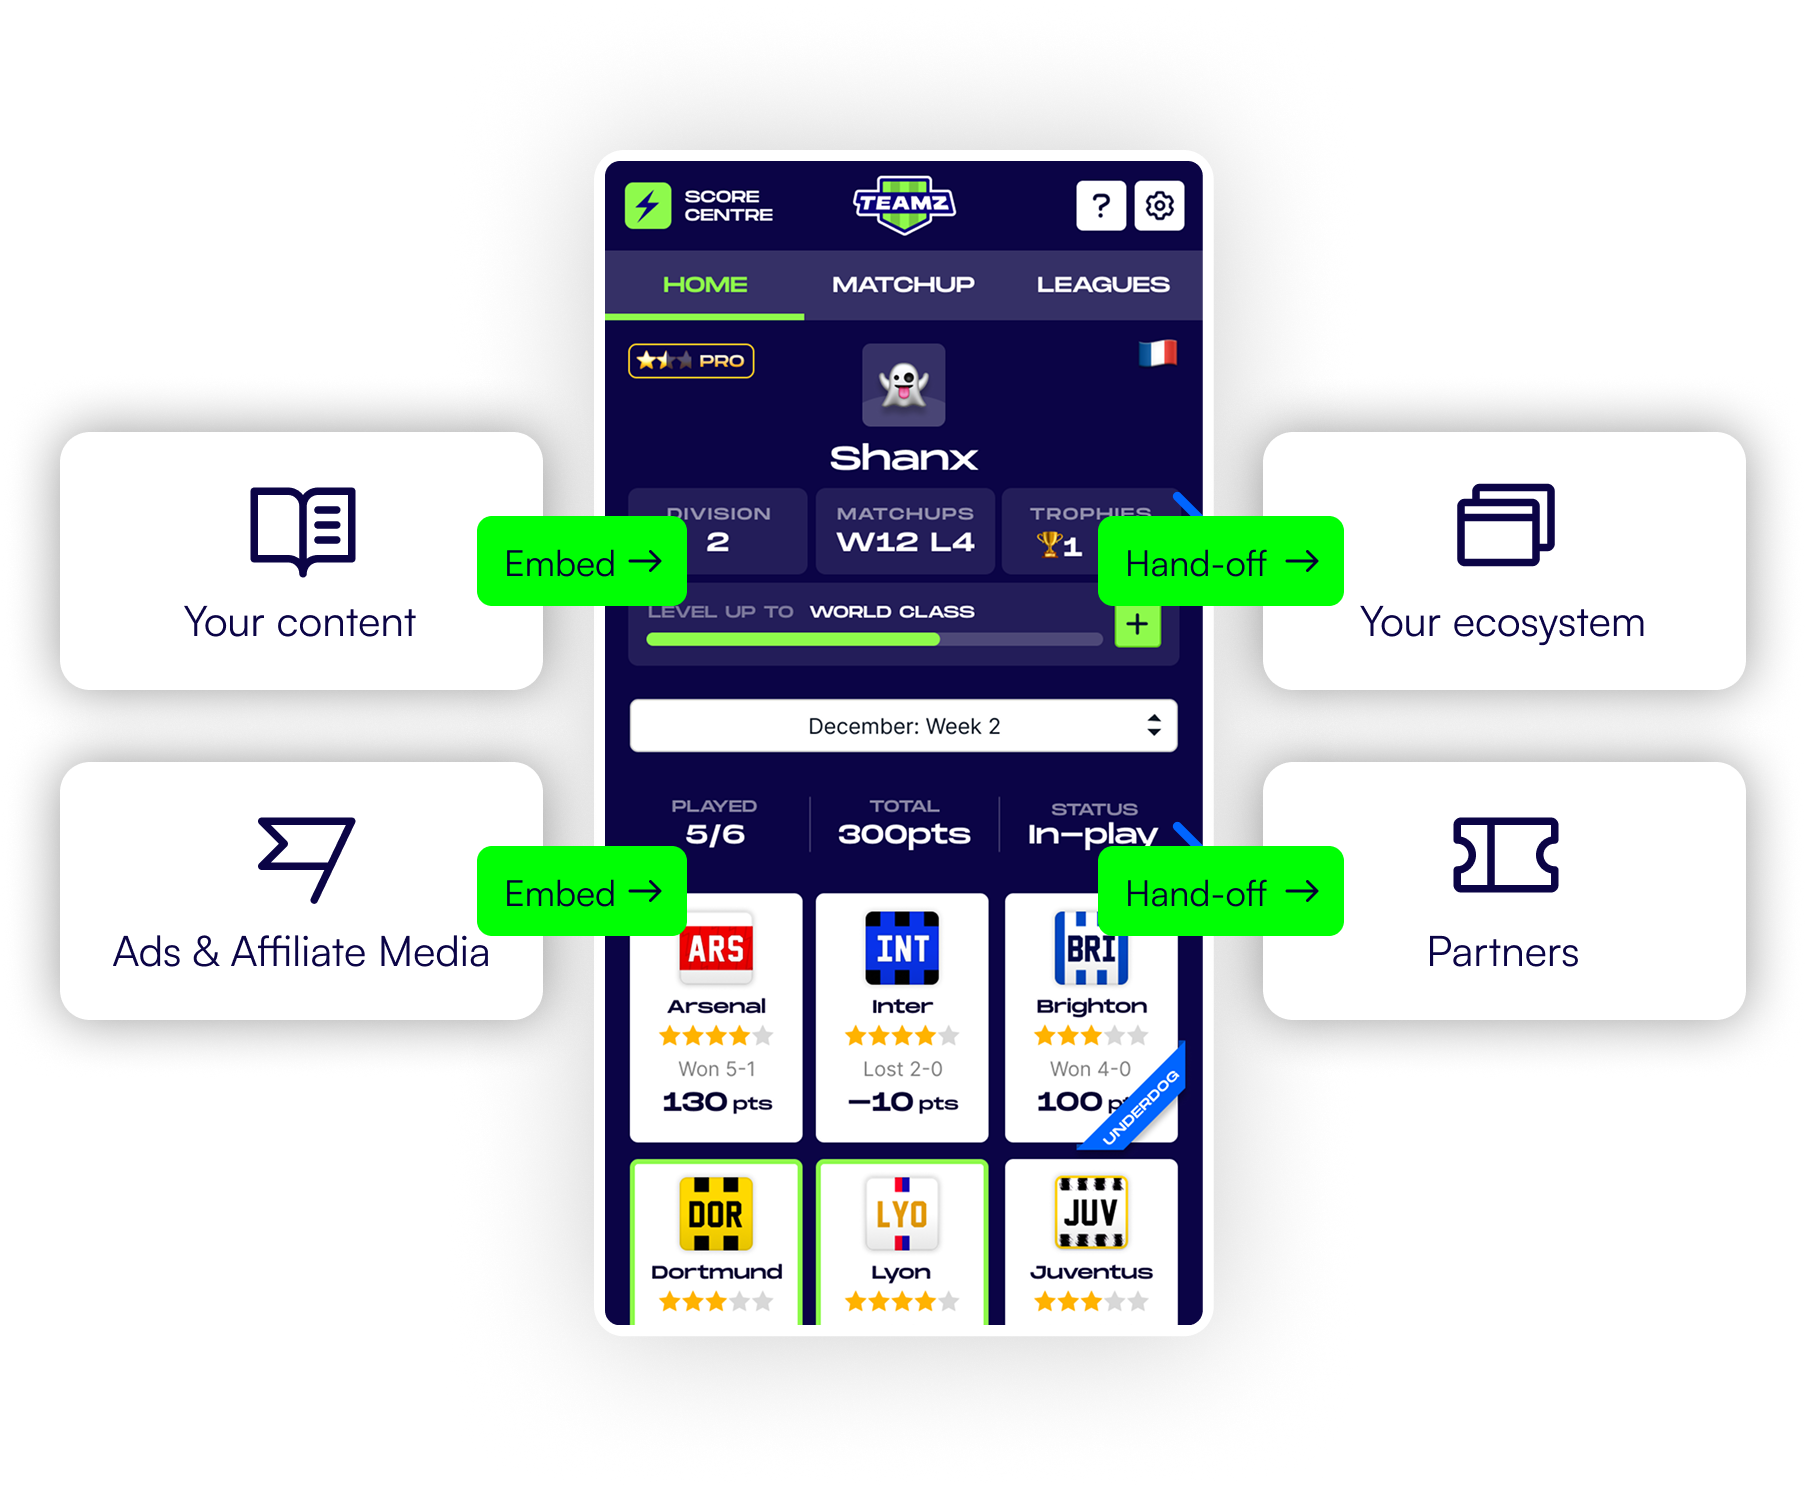
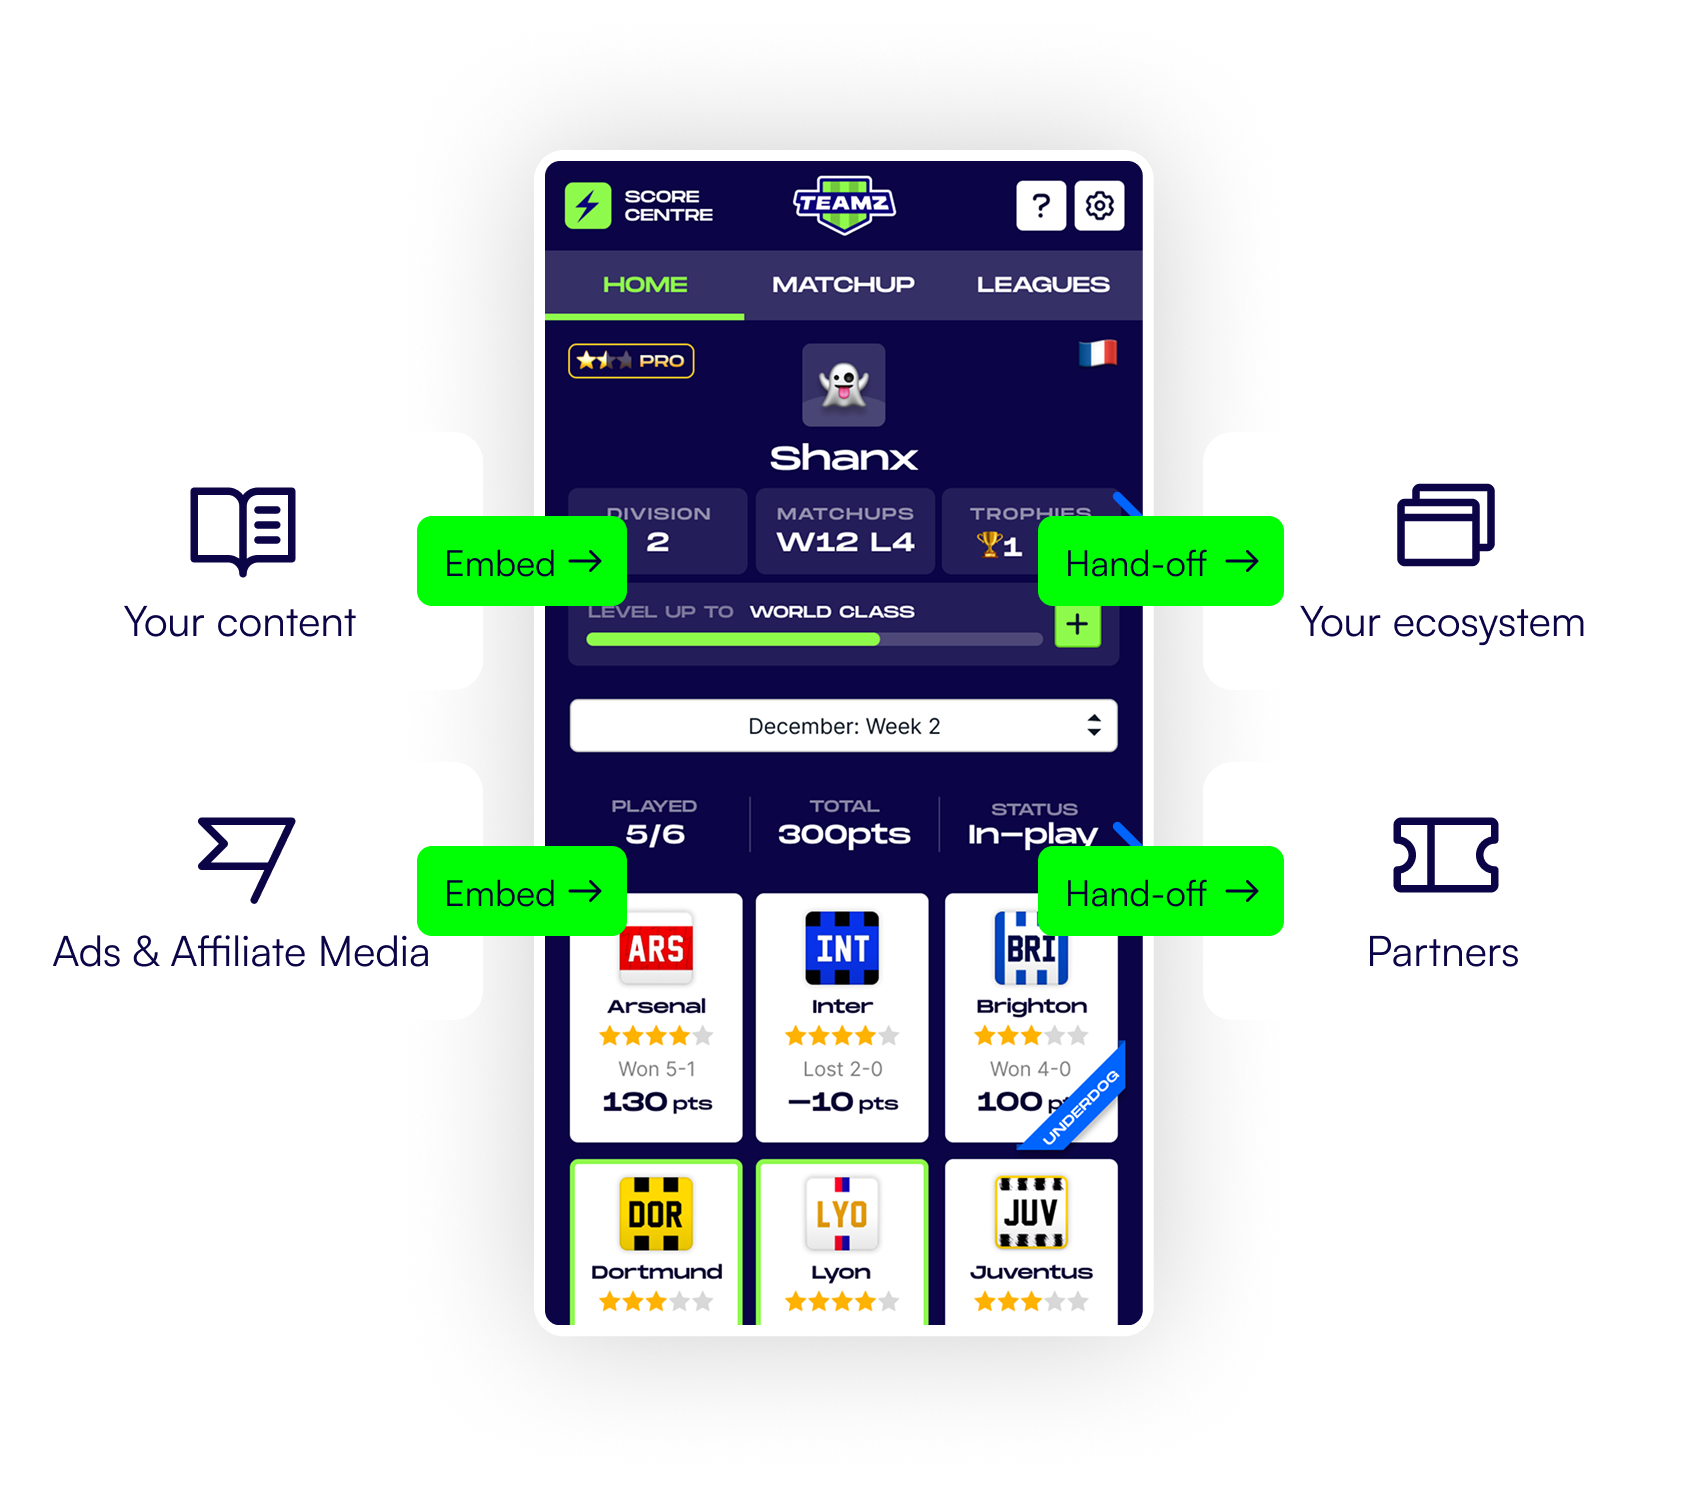
bigger images, no shadow

diff --git a/index.html b/index.html
@@ -231,13 +231,13 @@
                                         </div>
                                     </div>
                             </div>
-                            <div class="col-12 col-lg-7" data-aos="zoom-out" data-aos-delay="200">
+                            <div class="col-12 m-0 p-0 col-lg-7" data-aos="zoom-out" data-aos-delay="200">
                                 <img src="images/customise/formats.png" class="w-100 mt-0 px-0 px-md-5" style="max-width: 700px"/> 
                             </div>
                         </div>
                         
                         <div class="row my-5 my-lg-0 mx-4 mx-md-0 py-0 py-lg-5 py-xl-0 px-0">
-                            <div class="d-none d-lg-block col-7 text-center" data-aos="zoom-out" data-aos-delay="200">
+                            <div class="d-none d-lg-block col-7 text-center m-0 p-0" data-aos="zoom-out" data-aos-delay="200">
                                 <img src="images/customise/sports.png" class="w-100 px-0 px-md-5" style="max-width: 700px"/> 
                             </div>
                             <div class="col-12 col-lg-5 text-white align-center my-auto p-0">
@@ -264,7 +264,7 @@
                                     </div>
                                 </div>
                             </div>
-                            <div class="d-block d-lg-none col-12 text-center" data-aos="zoom-out" data-aos-delay="200">
+                            <div class="d-block d-lg-none col-12 text-center m-0 p-0" data-aos="zoom-out" data-aos-delay="200">
                                 <img src="images/customise/sports.png" class="w-100 mt-3 mt-lg-0 px-0 px-md-5" style="max-width: 700px"/> 
                             </div>
                         </div>
@@ -274,13 +274,13 @@
                                 <h3 class="brand-font-bold mb-3">End-to-end <span>branded</span></h3>
                                 <p class="pe-0">Every part of the user journey is tailored to your brand, from the games themselves to email templates and marketing assets, ensuring a seamless brand experience.</p>
                             </div>
-                            <div class="col-12 col-lg-7" data-aos="zoom-out" data-aos-delay="200">
+                            <div class="col-12 col-lg-7 m-0 p-0" data-aos="zoom-out" data-aos-delay="200">
                                 <img src="images/customise/branded.png" class="w-100 mt-0 mt-lg-0 px-0 px-md-5" style="max-width: 700px"/> 
                             </div>
                         </div>
                         
                         <div class="row my-5 my-lg-0 mx-4 mx-md-0 py-0 py-lg-5 py-xl-0 px-0">
-                            <div class="d-none d-lg-block col-7 text-center" data-aos="zoom-out" data-aos-delay="200">
+                            <div class="d-none d-lg-block col-7 text-center m-0 p-0" data-aos="zoom-out" data-aos-delay="200">
                                 <img src="images/customise/occasions.png" class="w-100 px-0 px-md-5" style="max-width: 700px"/> 
                             </div>
                             <div class="col-12 col-lg-5 text-white align-center my-auto p-0">
@@ -303,8 +303,8 @@
                                     </div>
                                 </div>
                             </div>
-                            <div class="d-block d-lg-none col-12 text-center" data-aos="zoom-out" data-aos-delay="200">
-                                <img src="images/customise/occasions.png" class="w-100 mt-0 mt-lg-0 px-0 px-md-5" style="max-width: 700px"/> 
+                            <div class="d-block d-lg-none col-12 text-center m-0 p-0" data-aos="zoom-out" data-aos-delay="200">
+                                <img src="images/customise/occasions.png" class="w-100 mt-3 mt-lg-0 px-0 px-md-5" style="max-width: 700px"/> 
                             </div>
                         </div>
                         
@@ -313,7 +313,7 @@
                                 <h3 class="brand-font-bold mb-3"><span>Seamless integration</span> with your ecosystem</h3>
                                 <p class="pe-0">Easily embed your existing content, ads and affiliate media directly into the game, and seamlessly hand-off to your ecosystem.</p>
                             </div>
-                            <div class="col-12 col-lg-7" data-aos="zoom-out" data-aos-delay="200">
+                            <div class="col-12 col-lg-7 m-0 p-0" data-aos="zoom-out" data-aos-delay="200">
                                 <img src="images/customise/integration.png" class="w-100 mt-0 mt-lg-0 px-0 px-md-5" style="max-width: 700px"/> 
                             </div>
                         </div>
